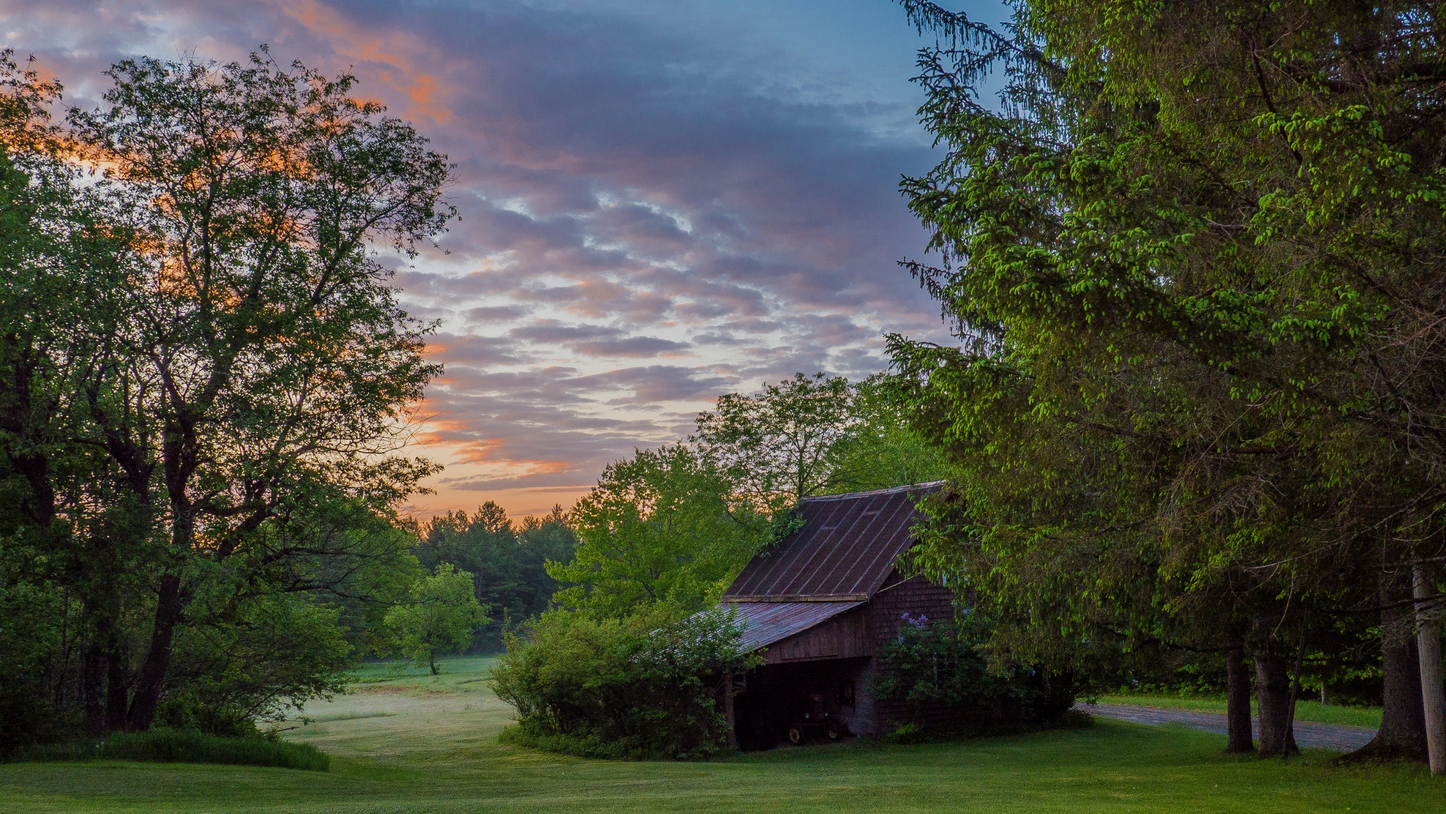
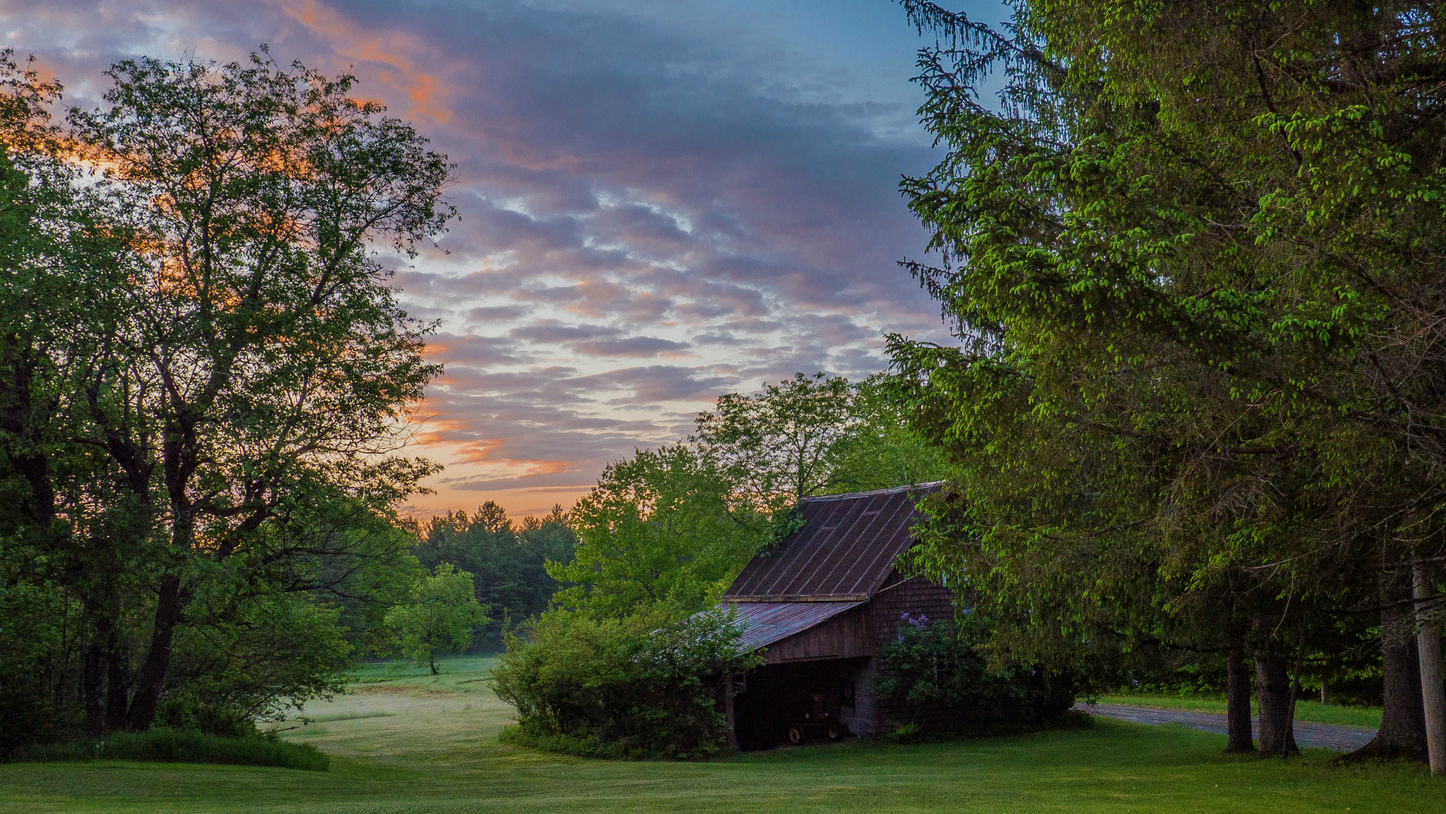
Compressed images, fixed bug in quote/image display, updated some styles

diff --git a/src/App.css b/src/App.css
@@ -111,7 +111,7 @@
   align-items: flex-end;
   text-align: center;
   position: absolute;
-  padding: 75px;
+  padding: 40px;
   bottom: 0;
   margin-bottom: 0;
   width: 90vw;
@@ -143,14 +143,14 @@
   opacity: 1;
 }
 .get-inspired {
-  height: 80px;
+  height: 70px;
   width: 289px;
   font-size: 2em;
   position: absolute;
   bottom: 0;
   left: 0;
   right: 0;
-  margin-bottom: 13.5vh;
+  margin-bottom: 14.5vh;
   margin-right: auto;
   margin-left: auto;
   display: flex;
@@ -279,12 +279,16 @@
   width: 70%;
   margin-left: auto;
   margin-right: auto;
+  display: -ms-flexbox;
   display: flex;
-  flex-direction: column;
-  justify-content: flex-end;
+  -ms-flex-direction: column;
+  flex-direction: column-reverse;
+  -ms-flex-pack: end;
+  justify-content: flex-start;
+  -ms-flex-align: center;
   align-items: center;
   text-align: center;
-  padding-bottom: 120px;
+  padding-bottom: 40px;
 }
 .modal-theme-switch {
   z-index: 1;
@@ -510,11 +514,13 @@
 .font-huge-light {
   font-size: 7em;
   color: white;
+  margin-top: 0;
 }
 .font-large-light {
   font-size: 3em;
   font-weight: bold;
   color: white;
+  margin-top: 0;
 }
 .font-size-light {
   font-size: 1.15em;
@@ -573,6 +579,9 @@
   .image-modal-center-overlay {
     padding-right: 5vw
   }
+  .todo-container {
+    max-height: 136px;
+  }
 }
 @media (max-width: 1298px) {
   .image-modal-center-overlay {
@@ -585,16 +594,16 @@
     font-size: 1.3em;
   }
   .font-large-light {
-    margin-top: 10vh;
+    margin-top: 5vh;
   }
   .font-large-dark {
-    margin-top: 10vh;
+    margin-top: 5vh;
   }
   .font-huge-light {
-    margin-bottom: 15vh;
+    margin-bottom: 7vh;
   }
   .font-huge-dark {
-    margin-bottom: 15vh;
+    margin-bottom: 7vh;
   }
   .focus-timer {
     width: 45px;
@@ -632,18 +641,6 @@
 @media (max-width: 1125px) {
   .image-modal-center-overlay {
     padding-right: 15vw;
-  }
-  .font-large-light {
-    margin-top: 10vh;
-  }
-  .font-large-dark {
-    margin-top: 10vh;
-  }
-  .font-huge-light {
-    margin-bottom: 15vh;
-  }
-  .font-huge-dark {
-    margin-bottom: 15vh;
   }
   .font-size-plus-light {
     font-size: 1.2em;
@@ -698,9 +695,6 @@
   .quotes-grid-item {
     width: 50%;
   }
-  .todo-container {
-    max-height: 136px;
-  }
 }
 @media (max-width: 840px) {
   .image-modal-center-overlay {
@@ -717,6 +711,9 @@
   .fa-pen {
     margin-right: 8px;
     margin-bottom: 8px;
+  }
+  .font-large-light {
+    margin-top: 10vh;
   }
 }
 @media (max-width: 650px) {
@@ -751,11 +748,12 @@
   .quotes-grid-text {
     font-size: .85em;
   }
-  .todo-container {
-    max-height: 136px;
-  }
   .quotes-grid-image {
     border-radius: 70px;
+  }
+  .get-inspired {
+    height: 50px;
+    margin-bottom: 17vh
   }
 }
 @media (max-width: 525px) {
@@ -804,10 +802,10 @@
     font-size: 3em;
   }
   .font-large-light {
-    font-size: 1.7em;
+    font-size: 1.4em;
   }
   .font-huge-light {
-    font-size: 4em;
+    font-size: 3.5em;
   }
   .font-size-plus-light {
     font-size: 1.2em;  
@@ -815,15 +813,11 @@
   .font-size-plus-dark {
     font-size: 1.2em;
   }
-  .todo-container {
-    max-height: 136px;
-  }
   .get-inspired {
     width: 220px;
-    height: 70px;
   }
   #landing-quote {
-    padding-bottom: 40px;
+    padding-bottom: 30px;
   }
 }
 
@@ -862,7 +856,7 @@
   }
   #landing-quote {
     font-size: 1em;
-    padding-bottom: 30px;
+    padding-bottom: 25px;
   }
   .todo-input-field {
     width: 120px;
